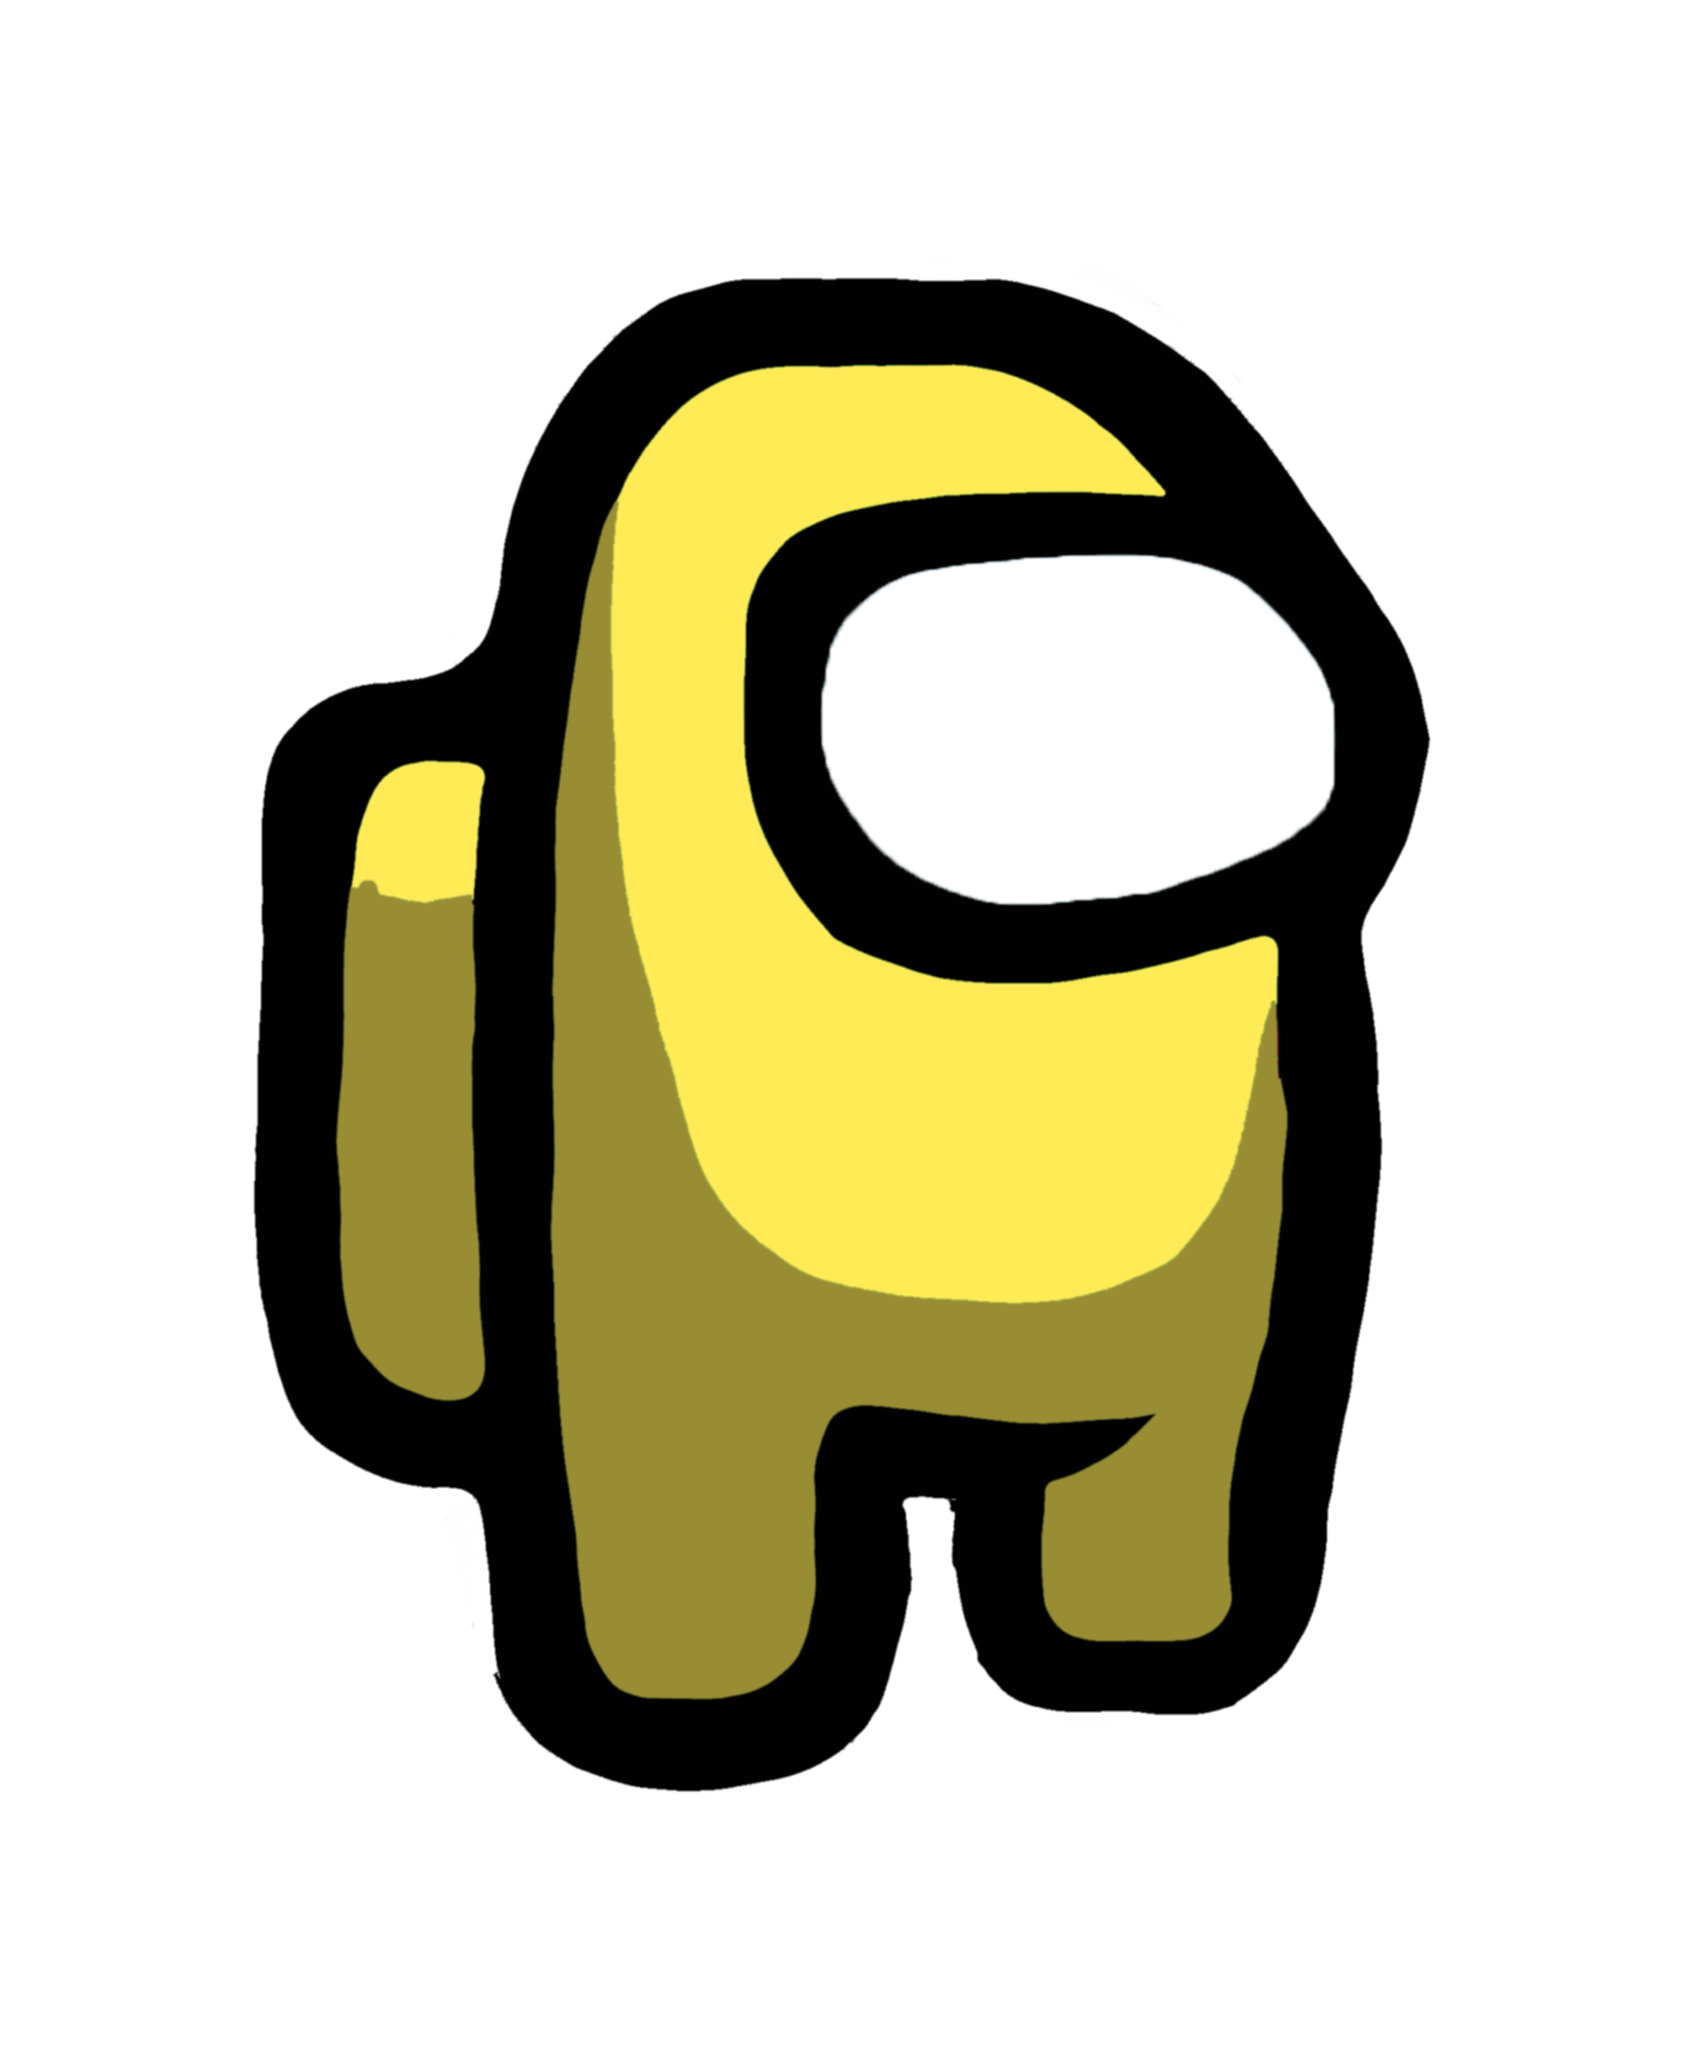
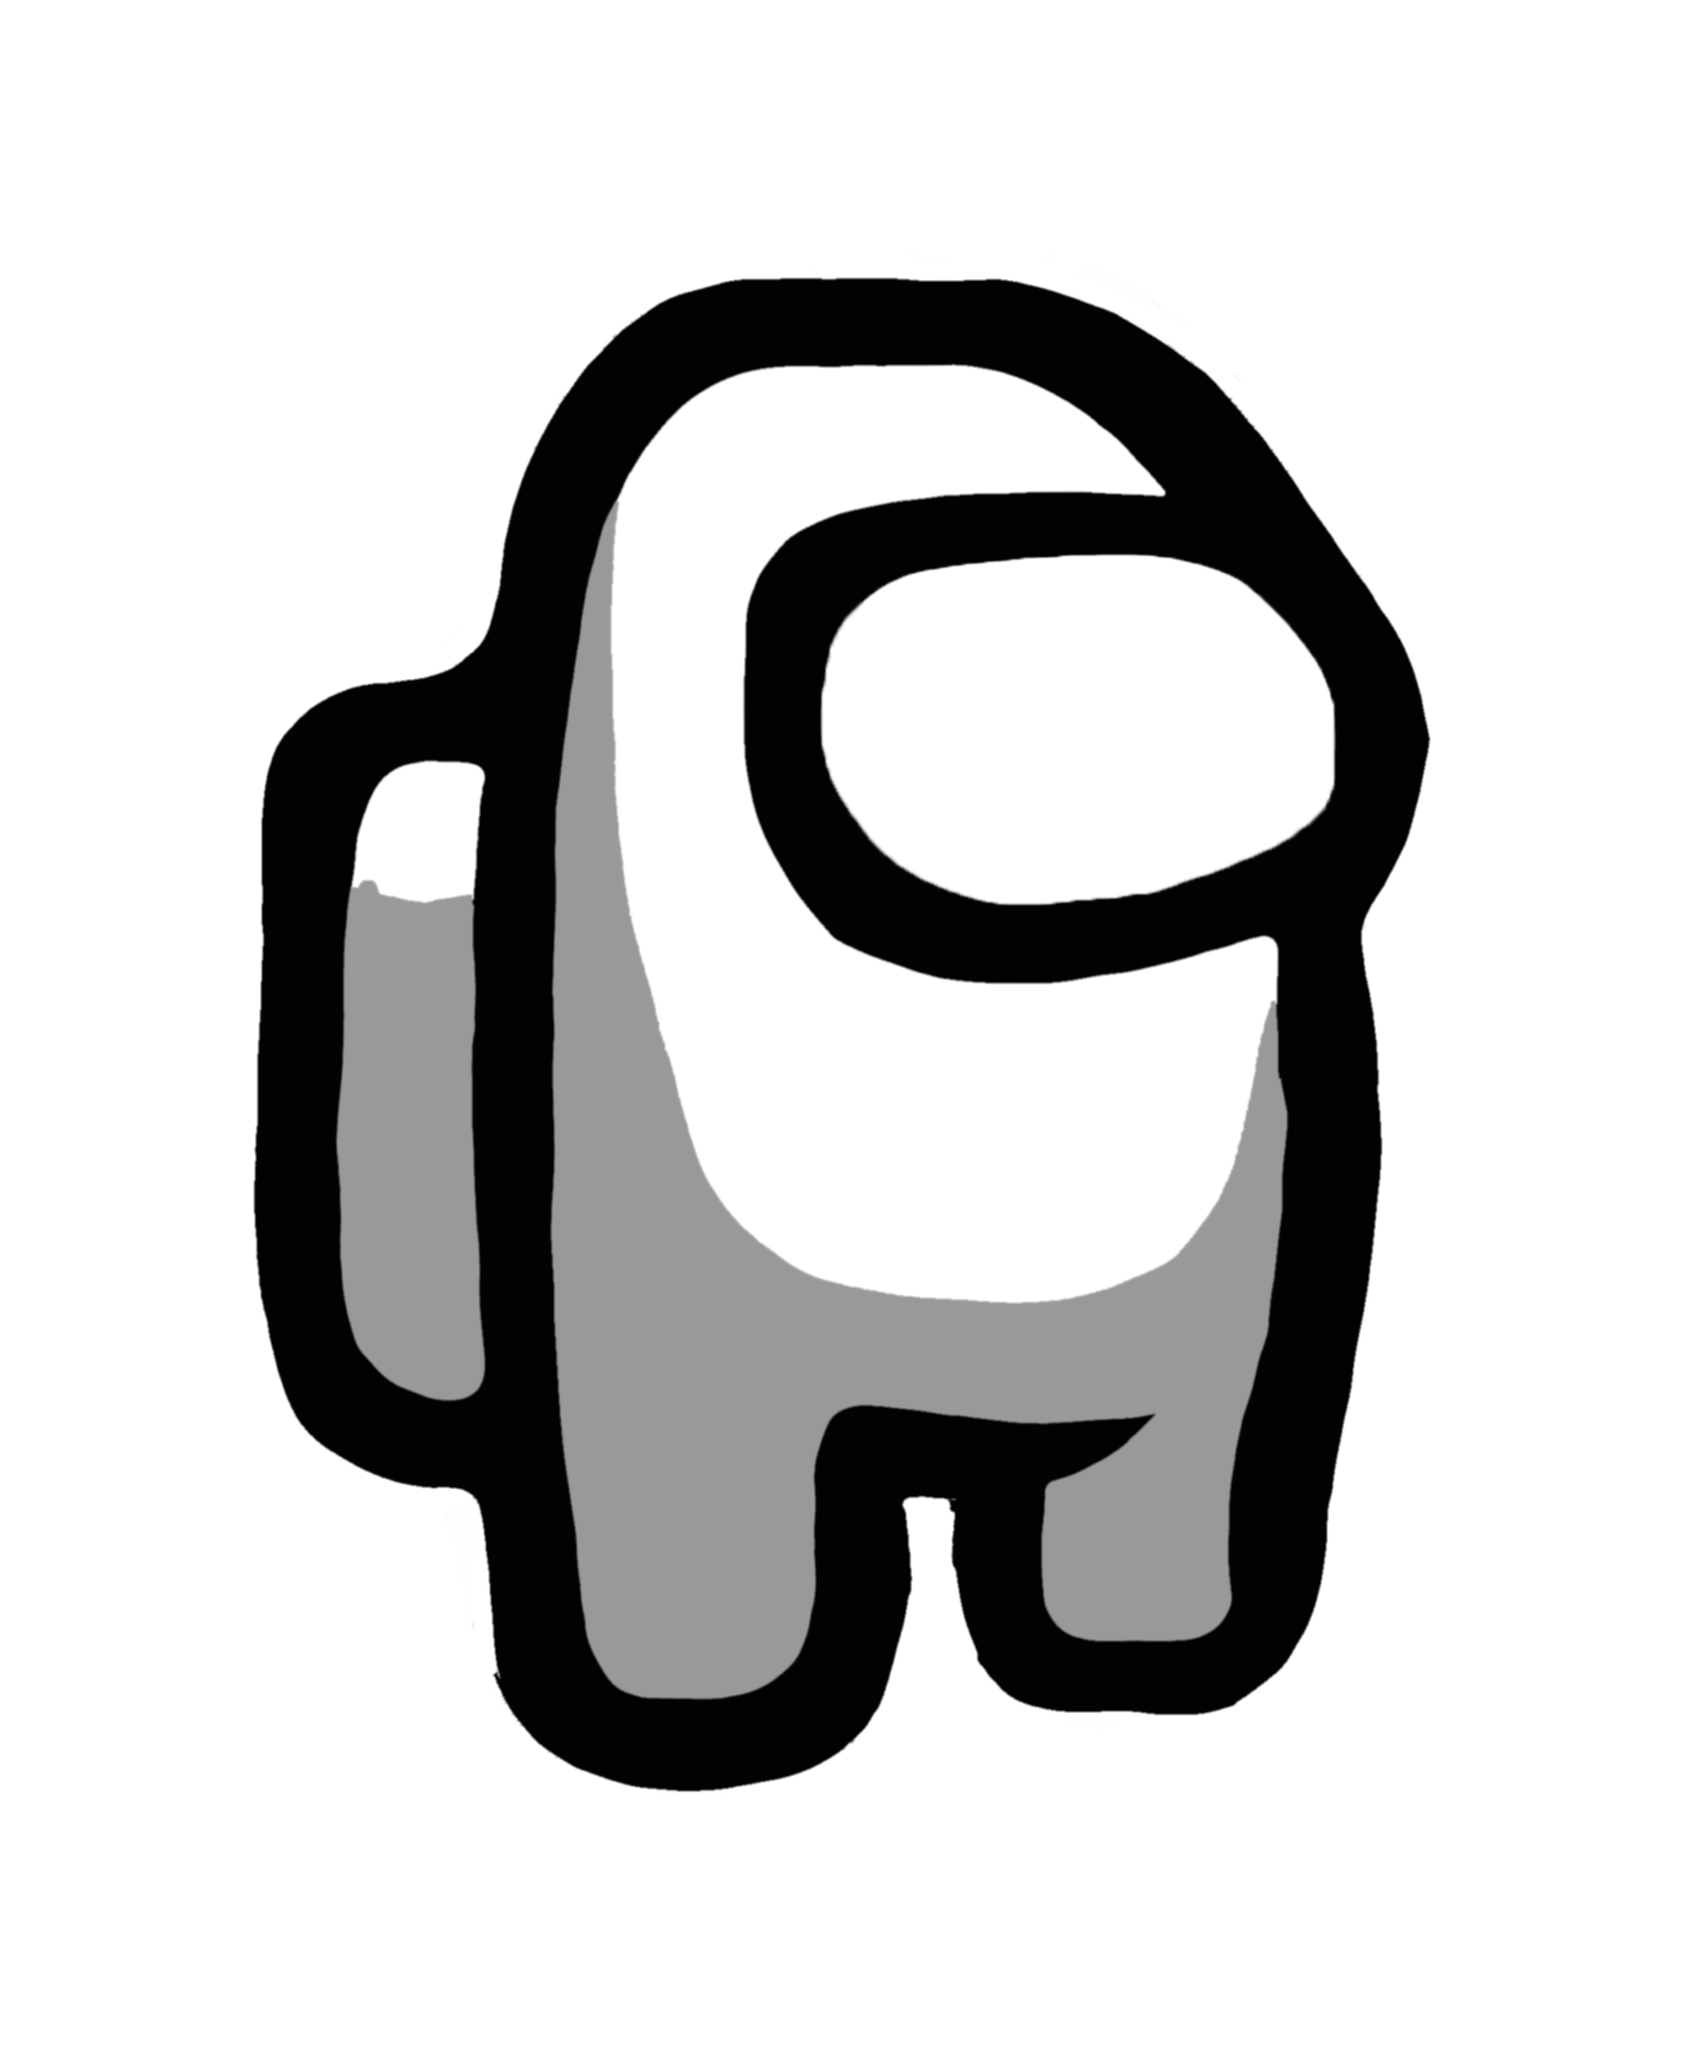
Absolute Overhaul
- sussy base now white
- sussy gets colored and stored in memory only when color is changed
- directional buttons can now be held down
- download button

Changed region(s): [[0.1853, 0.1562, 0.772, 0.8438]]

diff --git a/scripts/main.js b/scripts/main.js
@@ -4,11 +4,14 @@ const pos = {
 };
 
 
+/** @type {Object<string,HTMLImageElement>} */
+const sussy = {
+    base: null,         // white sussy (no color)
+    mask: null,         // sussy mask
+    colored: null       // colored sussy (generated by applying color to base and then drawing mask on top)
+};
 
-/** @type {HTMLImageElement} */
-let sussy;
-/** @type {HTMLImageElement} */
-let mask;
+
 
 let emoji = String.fromCodePoint(0x1F602);
 
@@ -28,81 +31,125 @@ ctx.emoji.textAlign = "center";
 ctx.emoji.textBaseline = "middle";
 
 
-/** @param {HTMLImageElement} */
-function init(img1, img2) {
-    sussy = img1;
-    mask = img2;
-
+function init() {
     // scaling canvas
-    sussy.width /= 4;
-    sussy.height /= 4;
-    canvas.emoji.width = canvas.sussy.width = sussy.width;
-    canvas.emoji.height = canvas.sussy.height = sussy.height;
-    container.style.width = sussy.width + "px";
-    container.style.height = sussy.height + "px";
+    sussy.default.width /= 4;
+    sussy.default.height /= 4;
+    canvas.emoji.width = canvas.sussy.width = sussy.default.width;
+    canvas.emoji.height = canvas.sussy.height = sussy.default.height;
+    container.style.width = sussy.default.width + "px";
+    container.style.height = sussy.default.height + "px";
 
-    $("#dpad button").on("click", function() {
-        const dir = $(this).data("dir");
-        if (dir == "up") pos.y--;
-        else if (dir == "down")  pos.y++;
-        else if (dir == "right")  pos.x++;
-        else if (dir == "left")  pos.x--;
-        go();
+    /** @type {number} */
+    let interval;
+
+    $("#dpad button").on({
+        "mousedown": function() {
+            clearInterval(interval);
+
+            const dir = $(this).data("dir");
+
+            /** @type {Function} */
+            const func = 
+            dir == "up" ? () => pos.y-- :
+            dir == "down" ? () => pos.y++ :
+            dir == "left" ? () => pos.x-- :
+            dir == "right" ? () => pos.x++ :
+            null;
+
+            if (func) {
+                interval = setInterval(() => {
+                    func();
+                    render();
+                }, 1000/30);
+            }
+            
+        }
     });
 
-    $("input").on("change", go);
-    go();
+    $(window).on("mouseup", () => clearInterval(interval));
+
+
+
+    $("input:not(#txtColor)").on("change", render);
+
+
+    // change color -> compile new sussy
+    $("#txtColor").on("change", function() {
+        const tempCanvas = document.createElement("canvas");
+        const tempCtx = tempCanvas.getContext("2d");
+        tempCanvas.width = canvas.emoji.width;
+        tempCanvas.height = canvas.emoji.height;
+
+        // draw sussy
+        tempCtx.drawImage(sussy.default, 0, 0, tempCanvas.width, tempCanvas.height);
+
+        // geting sussy overlay: "source-in" only fills rect where intersecting with sussy
+        tempCtx.globalCompositeOperation = "source-in";
+        tempCtx.fillStyle = $("#txtColor").val().toString();
+        tempCtx.fillRect(0, 0, tempCanvas.width, tempCanvas.height);
+
+        // now load sussy overlay into an image (can't apply globalCompositeOperation to imageData unfortunately)
+        getImage(tempCanvas.toDataURL()).then(overlay => {
+            tempCtx.clearRect(0, 0, tempCanvas.width, tempCanvas.height);
+
+            // draw sussy again
+            tempCtx.globalCompositeOperation = "source-over";
+            tempCtx.drawImage(sussy.default, 0, 0, tempCanvas.width, tempCanvas.height);
+            
+            // apply color
+            tempCtx.globalCompositeOperation = "multiply";
+            tempCtx.drawImage(overlay, 0, 0, tempCanvas.width, tempCanvas.height);
+
+            // draw mask
+            tempCtx.globalCompositeOperation = "source-over";
+            tempCtx.drawImage(sussy.mask, 0, 0, tempCanvas.width, tempCanvas.height);
+
+
+            getImage(tempCanvas.toDataURL()).then(result => {
+                sussy.colored = result;
+                render();
+            })
+        });
+
+    }).trigger("change");
+
+
+
+
+    $("#btnDownload").on("click", function() {
+        const tempCanvas = document.createElement("canvas");
+        const tempCtx = tempCanvas.getContext("2d");
+        tempCanvas.width = canvas.sussy.width;
+        tempCanvas.height = canvas.sussy.height;
+
+        tempCtx.drawImage(canvas.emoji, 0, 0);
+        tempCtx.drawImage(canvas.sussy, 0, 0);
+
+        var link = document.createElement("a");
+        link.download = "sussymoji.png";
+        link.href = tempCanvas.toDataURL()
+        link.click();
+    });
 }
 
-function go() {
+function render() {
     const emoji = $("#txtEmoji").val().toString();
     ctx.emoji.font = $("#txtSize").val() + "px Arial";
 
-
-    ctx.emoji.fillStyle = "white";
-    ctx.emoji.fillRect(0, 0, canvas.emoji.width, canvas.emoji.height);
-
-    ctx.sussy.fillStyle = $("#txtColor").val();
+    ctx.emoji.clearRect(0, 0, canvas.emoji.width, canvas.emoji.height);
     ctx.emoji.fillText(emoji, pos.x, pos.y);
-
-    ctx.sussy.clearRect(0, 0, canvas.emoji.width, canvas.emoji.height);
-
-
-    // draw sussy
-    ctx.sussy.filter = "none";
-    ctx.sussy.globalCompositeOperation = "source-over";
-    ctx.sussy.drawImage(sussy, 0, 0, canvas.emoji.width, canvas.emoji.height);
-
-    // geting sussy overlay: "source-in" only fills rect where intersecting with sussy
-    ctx.sussy.globalCompositeOperation = "source-in";
-    ctx.sussy.filter = "blur(1px)";
-    ctx.sussy.fillRect(0, 0, canvas.sussy.width, canvas.sussy.height);
-
-    // now load sussy overlay into an image (can't apply globalCompositeOperation to imageData unfortunately)
-    getImage(canvas.sussy.toDataURL()).then(overlay => {
-        // draw sussy again
-        ctx.sussy.filter = "none";
-        ctx.sussy.clearRect(0, 0, canvas.sussy.width, canvas.sussy.height);
-        ctx.sussy.globalCompositeOperation = "source-over";
-        ctx.sussy.drawImage(sussy, 0, 0, canvas.sussy.width, canvas.sussy.height);
-        
-        // apply color mask
-        ctx.sussy.globalCompositeOperation = "darken";
-        ctx.sussy.drawImage(overlay, 0, 0, canvas.sussy.width, canvas.sussy.height);
-
-        // draw mask
-        ctx.sussy.globalCompositeOperation = "source-over";
-        ctx.sussy.drawImage(mask, 0, 0, canvas.sussy.width, canvas.sussy.height);
-    });
-
- 
+    ctx.emoji.drawImage(sussy.colored, 0, 0);
 }
 
 
-getImage("img/sussy.png").then(sussy => getImage("img/mask.png").then(mask => init(sussy, mask)));
+Promise.all([
+    getImage("img/sussy.png").then(img => sussy.default = img),
+    getImage("img/mask.png").then(img => sussy.mask = img)
+]).then(() => init());
     
 
-
+/** @param {string} src */
 function getImage(src) {
     return new Promise((resolve, reject) => {
         try {

diff --git a/style.css b/style.css
@@ -4,7 +4,7 @@ body {
 
 #canvas {
     display: block;
-    background: #111;
+    background: white;
     margin: 0 auto;
     position: relative;
     max-width: 100%;
@@ -30,6 +30,7 @@ body {
 #controls {
     margin-top: 1em;
     justify-content: center;
+    align-items: flex-end;
     column-gap: 1em;
 }
 
@@ -37,6 +38,9 @@ button {
     border: none;
     outline: none;
     border-radius: 0.25em;
+    height: 3em;
+    margin: 2px;
+    user-select: none;
 }
 button:not(:disabled) {
     cursor: pointer;
@@ -57,9 +61,6 @@ button:not(:disabled) {
 }
 #dpad button {
     width: 5em;
-    height: 3em;
-    margin: 2px;
-
 }
 /* #endregion */
 
@@ -68,6 +69,12 @@ button:not(:disabled) {
     height: 2em;
     margin: 2px;
 }
-
-
 /* #endregion */
+
+
+#btnDownload {
+    background: #3ea73e;
+    font-weight: bold;
+    color: white;
+    border: 1px solid white;
+}

diff --git a/index.html b/index.html
@@ -34,6 +34,7 @@
             <input id="txtColor" type="color" value="#ff0000" />
         </div>
 
+        <button id="btnDownload">DOWNLOAD</button>
     </div>
     
 </body>
